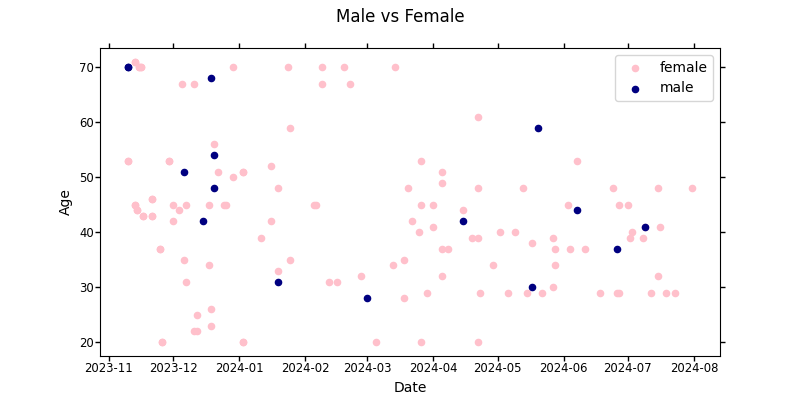
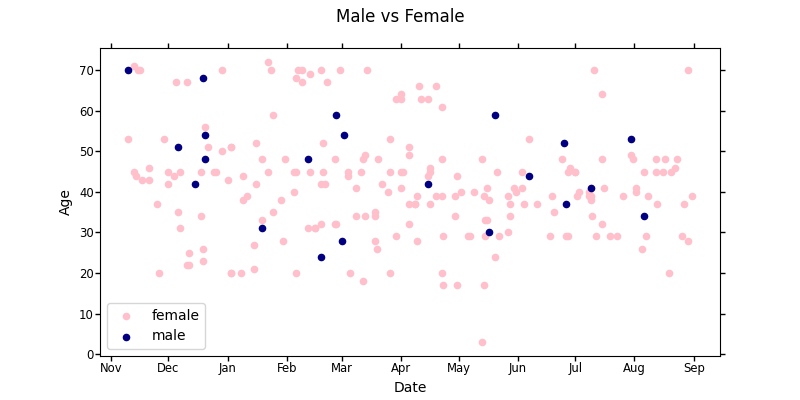
Updated the datafiles

diff --git a/src/warmline/mostused.py b/src/warmline/mostused.py
@@ -4,15 +4,16 @@ import matplotlib.pyplot as plt
 import numpy as np
 import seaborn as sns
 
+import matplotlib.cbook as cbook
+import matplotlib.dates as mdates
 
 
 from head import df
 
-df["Date"] = df["Date"].apply(pd.to_datetime)
-df["YOB"] = df["YOB"].astype(str).replace(" ", "").replace("", 0)
-df["Age"] = 2024 - df["YOB"].astype(float).astype(int)
-#df["Date"] = df["Date"].apply(lambda x: 2000)
+
 df = df[["Age", "Date", "Gender"]]
+
+df = df[df["Age"] < 100 ]
 
 
 # plot
@@ -24,21 +25,29 @@ for kind, data in df.groupby('Gender'):
 ax.set(xlabel='Date', ylabel='Age')
 
 
-
-
+labels = ax.get_xticklabels()
+plt.setp(labels, rotation=85, fontsize=8)
 
 
 
 #dates = pd.date_range(start=df["Date"].min(), end=df["Date"].max(), freq="ME")
 
-label  = pd.date_range(df["Date"].min(), df["Date"].max(), freq="MS")
 
+
+
+print(df["Date"].min())
+# Format x-axis labels as months
+ax.xaxis.set_major_locator(mdates.MonthLocator())
+ax.xaxis.set_major_formatter(mdates.DateFormatter('%b'))
+
+# Rotate x-axis labels if needed
+plt.xticks(rotation=45)
 
 
 
 ax.tick_params(reset=True, direction='out', pad=1.0, width=1, labelsize="small",zorder=2)
-fig.suptitle('Male vs Female')
 
+fig.suptitle('Male vs Female')
 
 from func import save
 save(__file__)

diff --git a/src/warmline/age.py b/src/warmline/age.py
@@ -6,34 +6,10 @@ import numpy as np
 
 from head import df
 
-def retain_quantile(df, percentile=0.95):
-    percentile_val = df['Age'].quantile(percentile)
-
-    return df[df['Age'] <= percentile_val]
-#df = pd.read_csv(os.path.join(os.path.abspath("."), "data", "warmline", "05-24.csv"), index_col="Date").dropna(axis="index")
-
-df["YOB"] = df["YOB"].astype(str).replace(" ", "").replace("", 0)
-df["Age"] = 2024 - df["YOB"].astype(float).astype(int)
-#df["Age"] = 2024 - df["YOB"].astype(int)
+d = df[df["Age"] < 100 ]
 
 
-#print(df['YOB'].astype(int))
-#df['Age'] = 2024 - df['YOB']
-
-
-#d = df[df['YOB'].astype(str).str.contains(" ") == False].dropna(subset=["Date", "YOB", "Gender"])
-#d["Age"] = 2024 - d.astype(int)["YOB"]
-
-# Who's Using
-#print(df["Age"])
-
-
-d = df[df["Age"] > df["Age"].quantile(0.5) ]
-d = d[d["Age"] <= d["Age"].quantile(0.95)]
-
-
-
-plot = d[["Age", "Gender"]].groupby("Gender").boxplot()
+plot = d[["Age", "Gender"]].groupby("Gender").boxplot( patch_artist=True, return_type='dict')
 
 from func import save
 save(__file__)

diff --git a/src/warmline/head.py b/src/warmline/head.py
@@ -1,13 +1,39 @@
 import pandas as pd
 import os
 
-d = pd.concat( [  pd.read_csv(os.path.join(os.path.abspath("."), "data", "warmline", file), index_col=False).dropna(axis="columns", how="all").dropna(axis="index") for file in list(os.walk("data/warmline"))[0][2]])
+
+#lis = zip([  pd.read_csv(os.path.join(os.path.abspath("."), "data", "warmline", file), index_col=False) for file in list(os.walk("data/warmline"))[0][2]],  list(os.walk("data/warmline"))[0][2])
 
 
-# Modifications to data set
+
+
+d = pd.concat( [  pd.read_csv(os.path.join(os.path.abspath("."), "data", "warmline", file)) for file in list(os.walk("data/warmline"))[0][2]])
+
+
+
+d["Date"] = pd.to_datetime(d["Date"])
+
 
 d["Gender"] = d["Gender"].str.strip()
+d["City"] = d["City"].str.strip()
 
+
+d["Age"] = 2024 - d["Year of Birth"].astype(str).replace(" ", "").replace("", 0).astype(float).astype(int)
+
+
+
+"""
+If Age Matters: 
+
+d = df[df["Age"] < 100 ]
+
+
+"""
+
+print(d["Date"].min())
+#print(d["Age"].value_counts())
+
+# TODO Add Age
 df = d
 
 

diff --git a/src/warmline/timeandcity.py b/src/warmline/timeandcity.py
@@ -8,7 +8,6 @@ pd.DataFrame()
 from head import df
 
 df["Zip"] = df["Zip"].astype(float).astype(int)
-df = df[df["Zip"] > 0]
 
 #d = df[df["Age"] > df["Age"].quantile(0.5) ]
 
@@ -24,9 +23,9 @@ print(df.plot.bar(x='Zip',  stacked=True,  rot=0, color="red", figsize=(20, 10))
 fig, ax = plt.subplots(figsize=(6, 4))
 
 
-d = df.groupby(['Zip', 'Gender'])['Zip'].count().unstack('Gender').fillna(0)
+d = df.groupby(['City', 'Gender'])['City'].count().unstack('Gender').fillna(0)
 plt.ylabel("Call Amounts")
-plt.title("Amount of Warmline Calls per Zip Code by Gender", loc="left", )
+plt.title("Amount of Warmline Calls per City Code by Gender", loc="left", )
 print(d.plot(kind="bar", stacked=True,  figsize=(20, 10),color=['pink', 'blue']),)
 
 from func import save

diff --git a/src/warmline/totalcountsovertimegender.py b/src/warmline/totalcountsovertimegender.py
@@ -9,9 +9,6 @@ pd.DataFrame()
 
 from head import df
 
-df["Date"] = df["Date"].apply(pd.to_datetime)
-df["YOB"] = df["YOB"].astype(str).replace(" ", "").replace("", 0)
-df["Age"] = 2024 - df["YOB"].astype(float).astype(int)
 #df["Date"] = df["Date"].apply(lambda x: 2000)
 df["Count"] = np.ones(len(df["Date"]))
 df = df[["Date", "Count", "Gender"]]

diff --git a/src/warmline/totalcountsovertime.py b/src/warmline/totalcountsovertime.py
@@ -9,10 +9,6 @@ pd.DataFrame()
 
 from head import df
 
-df["Date"] = df["Date"].apply(pd.to_datetime)
-df["YOB"] = df["YOB"].astype(str).replace(" ", "").replace("", 0)
-df["Age"] = 2024 - df["YOB"].astype(float).astype(int)
-#df["Date"] = df["Date"].apply(lambda x: 2000)
 df["Count"] = np.ones(len(df["Date"]))
 df = df[["Date", "Count"]]
 
